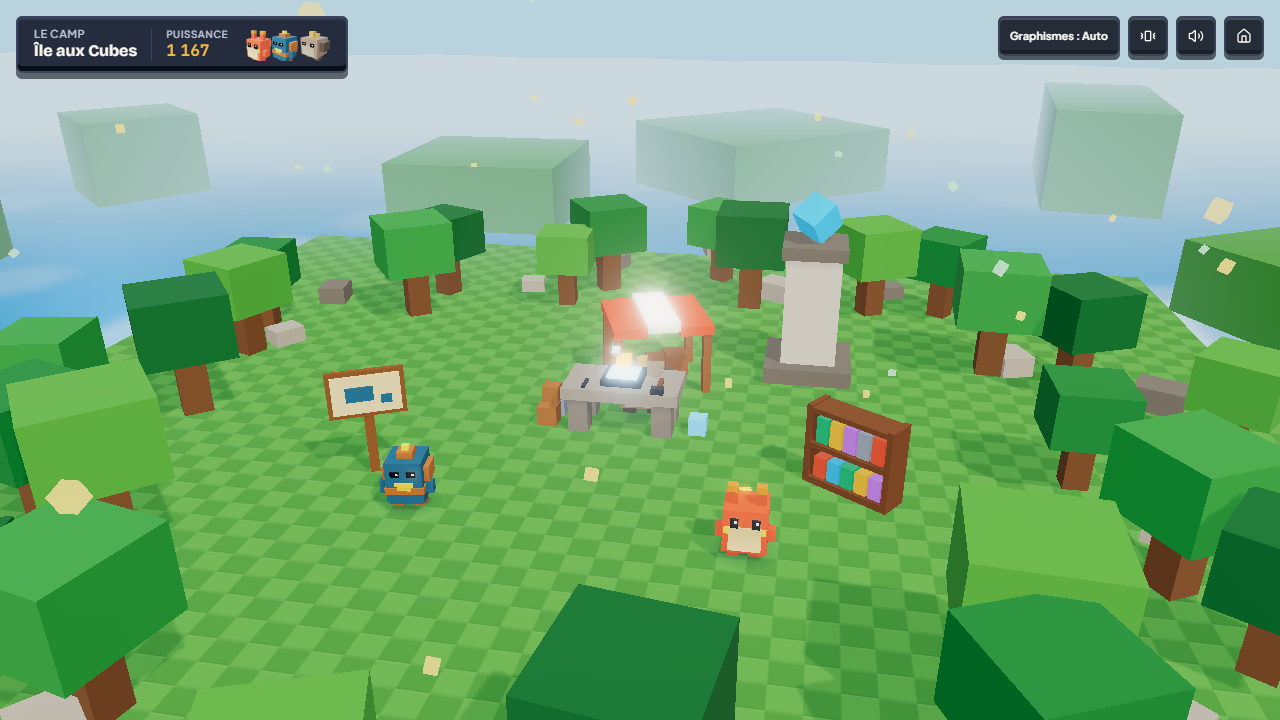
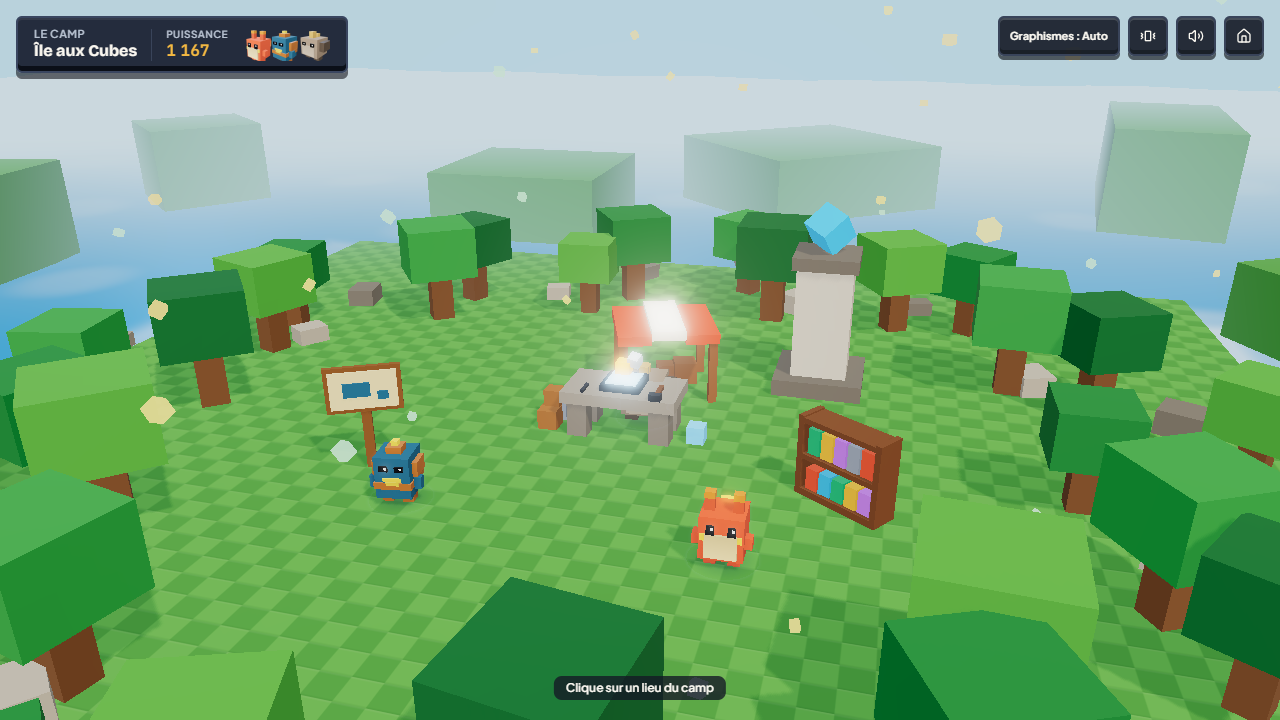
a3.4: captures avant/apres du hub (docs/captures/a3), rapport docs/rapports/A3.md, CLAUDE.md

diff --git a/docs/rapports/A3.md b/docs/rapports/A3.md
@@ -1,0 +1,101 @@
+# Rapport de session A3 — Le hub vivant, le Carnet et l'équipe
+
+Spec `docs/plan/SPEC_ATELIER.md`, branche `a3-hub`, partie de `a2-final`. `main` n'a pas bougé.
+
+## 1. Résumé en 5 lignes
+
+1. **Le camp est le menu.** Le panneau de l'île, l'Atelier, la tente et la nouvelle bibliothèque s'illuminent au survol, affichent leur nom et rapprochent un peu la caméra ; un clic ouvre l'écran correspondant. Des pastilles signalent le nouveau, et les compagnons vont d'un lieu à l'autre.
+2. **Le dock** disparaît sur bureau ; il reste pour le clavier (il réapparaît au focus) et sur téléphone.
+3. **Le Carnet** remplace le Codex et les quêtes, avec cinq onglets :
+   - Créatures : trois états (ombre « ??? », ombre nommée, couleur), et une fiche avec modèle qui tourne ;
+   - Collection : points et paliers réclamés d'un clic ;
+   - Exploits, classés par thème ;
+   - Éléments ;
+   - Sauvegarde et journal.
+   Les quêtes tournantes sont supprimées : leurs récompenses en attente sont accordées. Sauvegarde v10.
+4. **L'écran d'équipe** est refait :
+   - le trio en grands portraits, avec le Meneur et l'effet de son Déchaînement ;
+   - au centre, la créature choisie en modèle qui tourne ; « Détails » déplie statistiques, Runes et Galets ;
+   - la réserve triée par élément, avec échange en un clic ;
+   - une ligne qui résume le trio ;
+   - la variante de couleur.
+5. Golden identique, 120 tests, lexique et textes à 0. Le Carnet et l'équipe ont été écrits par des agents, puis relus et vérifiés.
+
+## 2. Tags et retour arrière
+
+| Tag | État |
+| --- | --- |
+| `a3-avant-hub` | = `a2-final` |
+| `a3-avant-carnet` | hub cliquable |
+| `a3-avant-equipe` | Carnet |
+| `a3-avant-verification` | écran d'équipe |
+| `a3-final` | fin de session |
+
+## 3. Ce qui a changé, par section
+
+- **A3.1 Le hub** :
+  - `engine/hub.ts` : lieux, lancer de rayon, surbrillance, positions à l'écran, approche de la caméra, destinations des promeneurs ;
+  - modèles voxel neufs : panneau de l'île et bibliothèque ;
+  - `components/HubOverlay.tsx` : survol, clic, second toucher sur téléphone, noms, pastilles et consigne « Clique sur un lieu du camp » ;
+  - test moteur : quatre lieux au camp, aucun en combat.
+- **A3.2 Le Carnet** :
+  - `CarnetDrawer.tsx` et `CarnetSave.tsx` ;
+  - `game/collection.ts` (règles pures, testées), `COLLECTION_POINTS` et `COLLECTION_TIERS` (balance.ts) ;
+  - suppression de `CodexDrawer.tsx`, `QuestsDrawer.tsx` et `QUEST_POOL` ;
+  - migration v9 → v10 : quêtes terminées payées une fois (table `LEGACY_QUEST_REWARDS`), `collectionTiersClaimed`, `titles`.
+- **A3.3 L'équipe** :
+  - `TeamDrawer.tsx` réécrit ;
+  - règles pures `swapSquadMember` et `toggleVariant` (tests dans `team.test.ts`) ;
+  - variante de couleur (teinte décalée de 150°) dans `buildVoxelCreature`, sans aucun objet en plus.
+- **A3.4 Vérification** : captures avant et après dans `docs/captures/a3/`.
+
+## 4. Mesures
+
+- `npm run check` passe : 120 tests ; golden identique à chaque section.
+- `npm run lexique` = 0 ; `npm run texts` = 0.
+- Captures avec GPU, bureau et mobile : camp, carte, Atelier, équipe et Carnet (après), et leurs équivalents d'avant (camp, carte, Atelier, équipe, quêtes, Codex).
+
+## 5. Valeurs de jeu modifiées
+
+- **Quêtes tournantes** : supprimées.
+- **Paliers de collection**, au 50, 120, 200, 300, 420, 560, 720 et 900 points : cubes, Appâts, titres et cadres.
+- **Le premier palier (50 points) est réclamable dès une partie neuve**, qui compte 3 formes et 4 Runes.
+
+## 6. Décisions prises seul
+
+- **Le Carnet s'ouvre après le niveau 1**, comme l'onglet Quêtes avant lui, pour que l'export du journal reste accessible tôt.
+- **Le premier palier de collection** est atteint dès le départ. C'est un petit cadeau d'accueil, que je garde ; il suffit de le monter à 60 dans `COLLECTION_TIERS` si tu n'en veux pas.
+- **Une réserve qui entre dans un trio plein** remplace la créature choisie au centre. Une créature de la même lignée qu'un membre est grisée, avec la raison.
+- **La variante de couleur ne s'affiche que sur le modèle qui tourne** (écran d'équipe), ni au combat ni au camp : la spec ne demandait que le choix dans l'écran d'équipe.
+- **La bibliothèque et le panneau** sont des modèles neufs. La tente existante sert pour l'équipe.
+- **L'onglet du Professeur** est gardé dans le Carnet, seulement avec `VITE_AI_CODEX=1`.
+
+## 7. Non fait ou coupé
+
+- **Textes coupés et zones de 44 px** : vérifiés sur captures en 360 × 640 et 1280 × 720 seulement, pas en 2560 × 1440.
+- **Navigation complète au clavier et au toucher** : Échap est vérifié par test, mais la navigation dans le hub n'a pas été essayée à la main.
+- **Animations** (approche de caméra, portraits qui tournent, compagnons qui se déplacent) : jamais vues en mouvement, le navigateur headless ne les fait pas avancer.
+- **Changer de Meneur** en réordonnant le trio.
+
+## 8. Bugs trouvés
+
+Aucun nouveau.
+
+## 9. À juger par un humain
+
+Captures : `docs/captures/a3/avant/` et `docs/captures/a3/apres/`.
+
+### Contrôle du propriétaire, à la fin des quatre sessions (20 minutes)
+
+1. En navigation privée, nouvelle partie jusqu'au premier boss : le premier cube s'ouvre-t-il avec émotion ?
+2. Ouvre 5 cubes (avec `?gallery=reveal` si besoin) : la révélation en ombre donne-t-elle envie d'en ouvrir un autre ?
+3. Le camp : trouves-tu chaque menu en cliquant sur les lieux, sans aide ?
+4. Le Carnet : as-tu envie de remplir les ombres ?
+5. Les graphismes : le jeu est-il plus beau ? Reste-t-il fluide sur ton PC et ton téléphone (`?bench=1`) ?
+6. La nouvelle lignée Foudre : fait-elle encore penser à une autre licence ?
+
+## Reprise
+
+- **Changé** : branche `a3-hub`, sauvegarde v10.
+- **Retour arrière** : les tags `a3-avant-*`, ou `sauvegarde-avant-atelier` pour revenir avant toute la spec.
+- **Ne pas toucher** : `main`.

diff --git a/CLAUDE.md b/CLAUDE.md
@@ -106,6 +106,7 @@ Chaque module exporte des fonctions qui reçoivent le moteur en premier argument
 | `actors.ts` | État commun des acteurs, pose animée des modèles, recherche de cible, disparition. |
 | `fx.ts` | Particules, projectiles, ondes de choc, télégraphes au sol, confettis. |
 | `hud.ts` | Instantané de combat envoyé à l'interface. |
+| `hub.ts` | Hub cliquable du camp (A3) : lieux, survol, positions à l'écran, promeneurs. Seulement au camp. |
 | `postfx.ts` | Pipeline d'effets (G1) : GTAO, contour, halo, étalonnage par biome ; niveaux Bas/Moyen/Haut/Automatique. Jamais en headless. |
 | `debug.ts` | Mesures de l'overlay `?debug=1`. |
 
